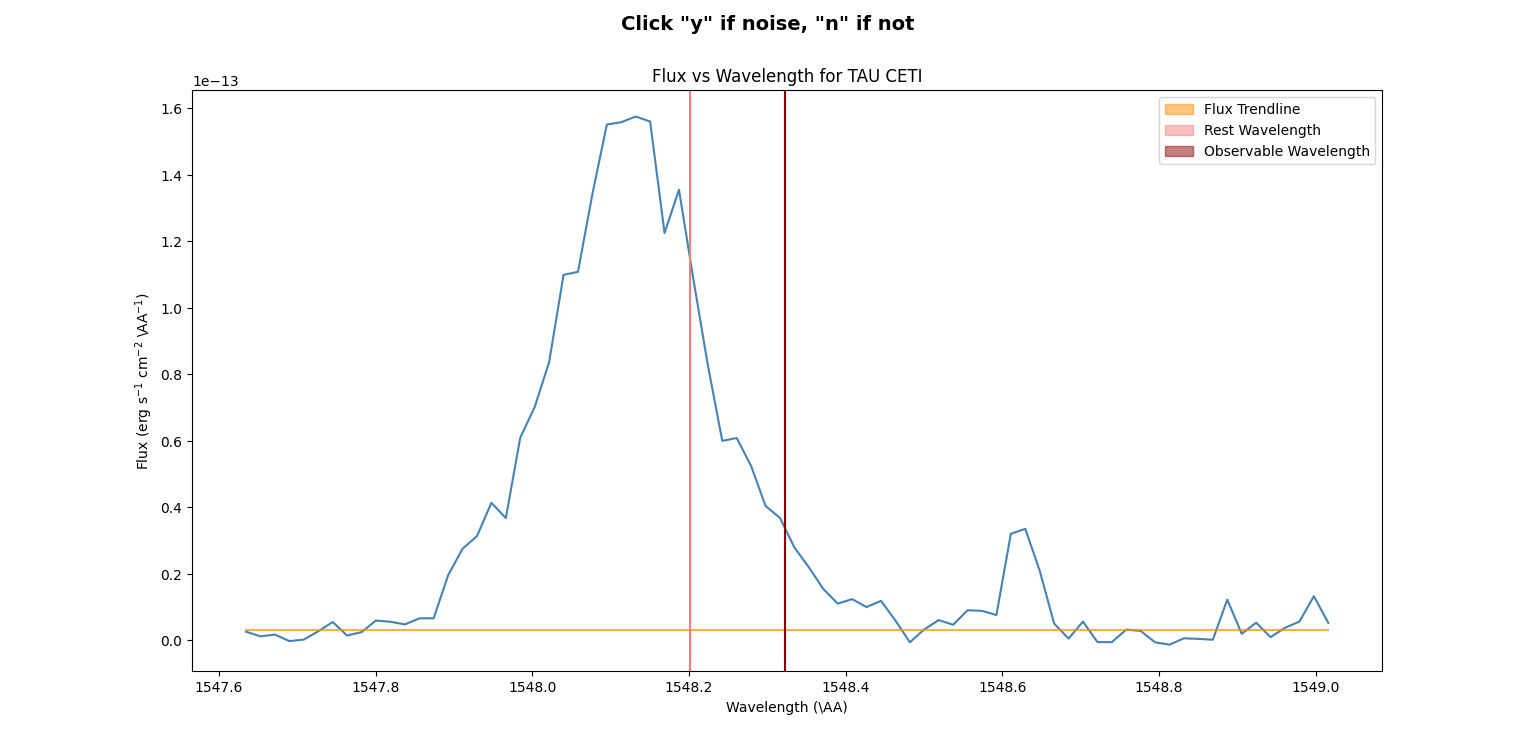
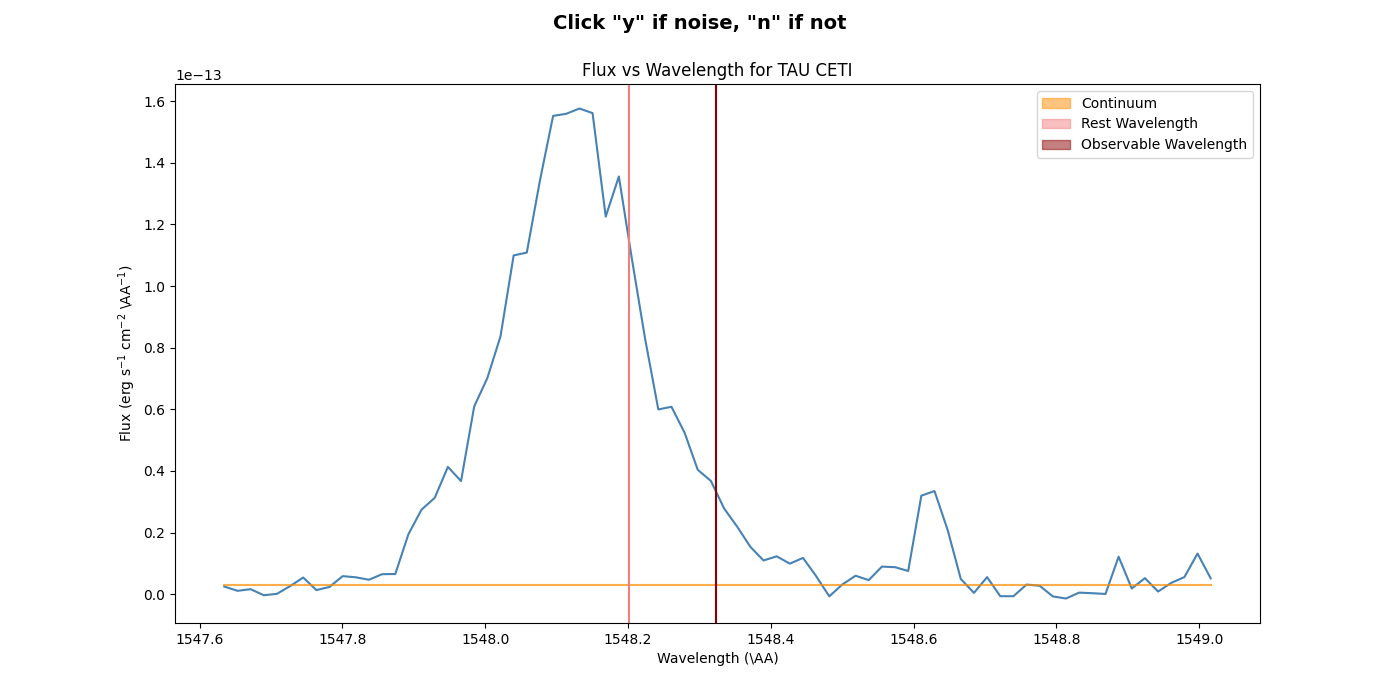
fixing plots

diff --git a/main.py b/main.py
@@ -111,7 +111,7 @@ for line in emission_lines_list:
         plt.xlabel('Wavelength (\AA)')
         plt.ylabel('Flux (erg s$^{-1}$ cm$^{-2}$ \AA$^{-1}$)')
         plt.ylabel('Flux (erg s$^{-1}$ cm$^{-2}$ \AA$^{-1}$)')
-        trendline_patch = patches.Patch(color='darkorange', alpha=0.5, label='Flux Trendline')
+        trendline_patch = patches.Patch(color='darkorange', alpha=0.5, label='Continuum')
         rest_patch = patches.Patch(color='lightcoral', alpha=0.5, label='Rest Wavelength')
         obs_patch = patches.Patch(color='darkred', alpha=0.5, label='Observable Wavelength')
 
